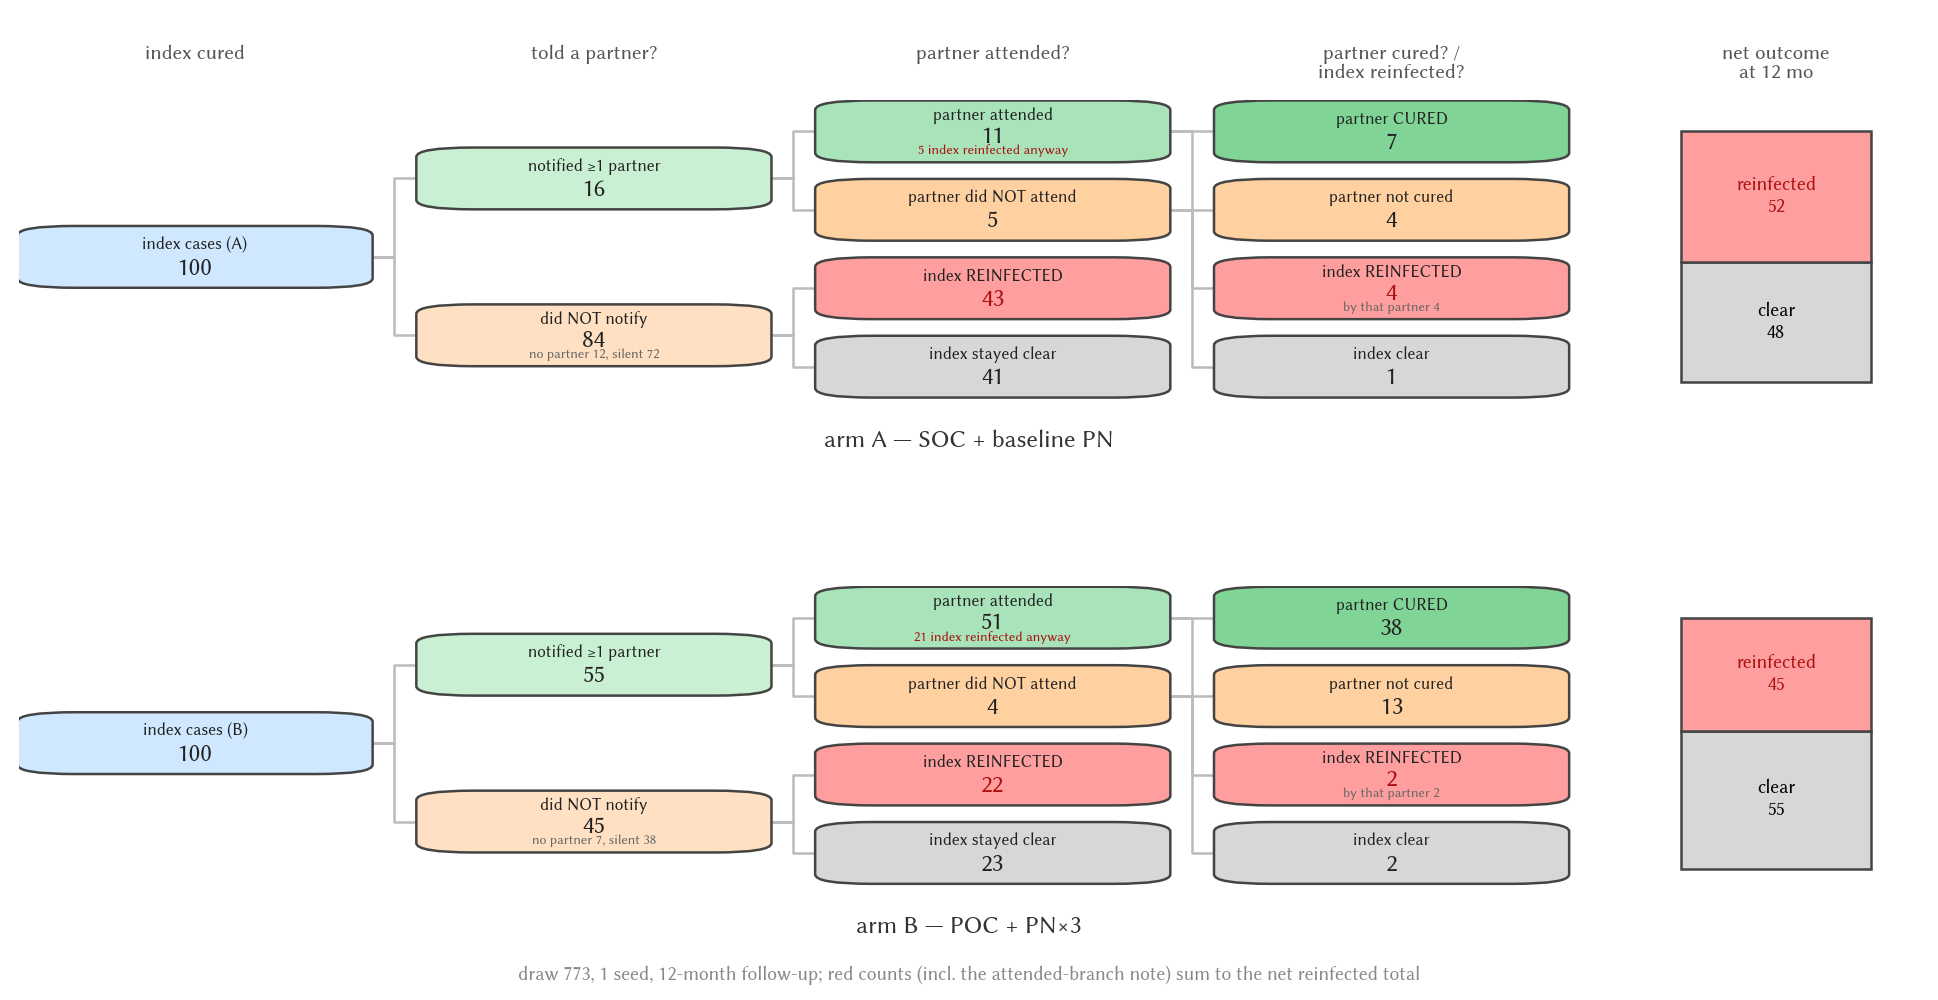
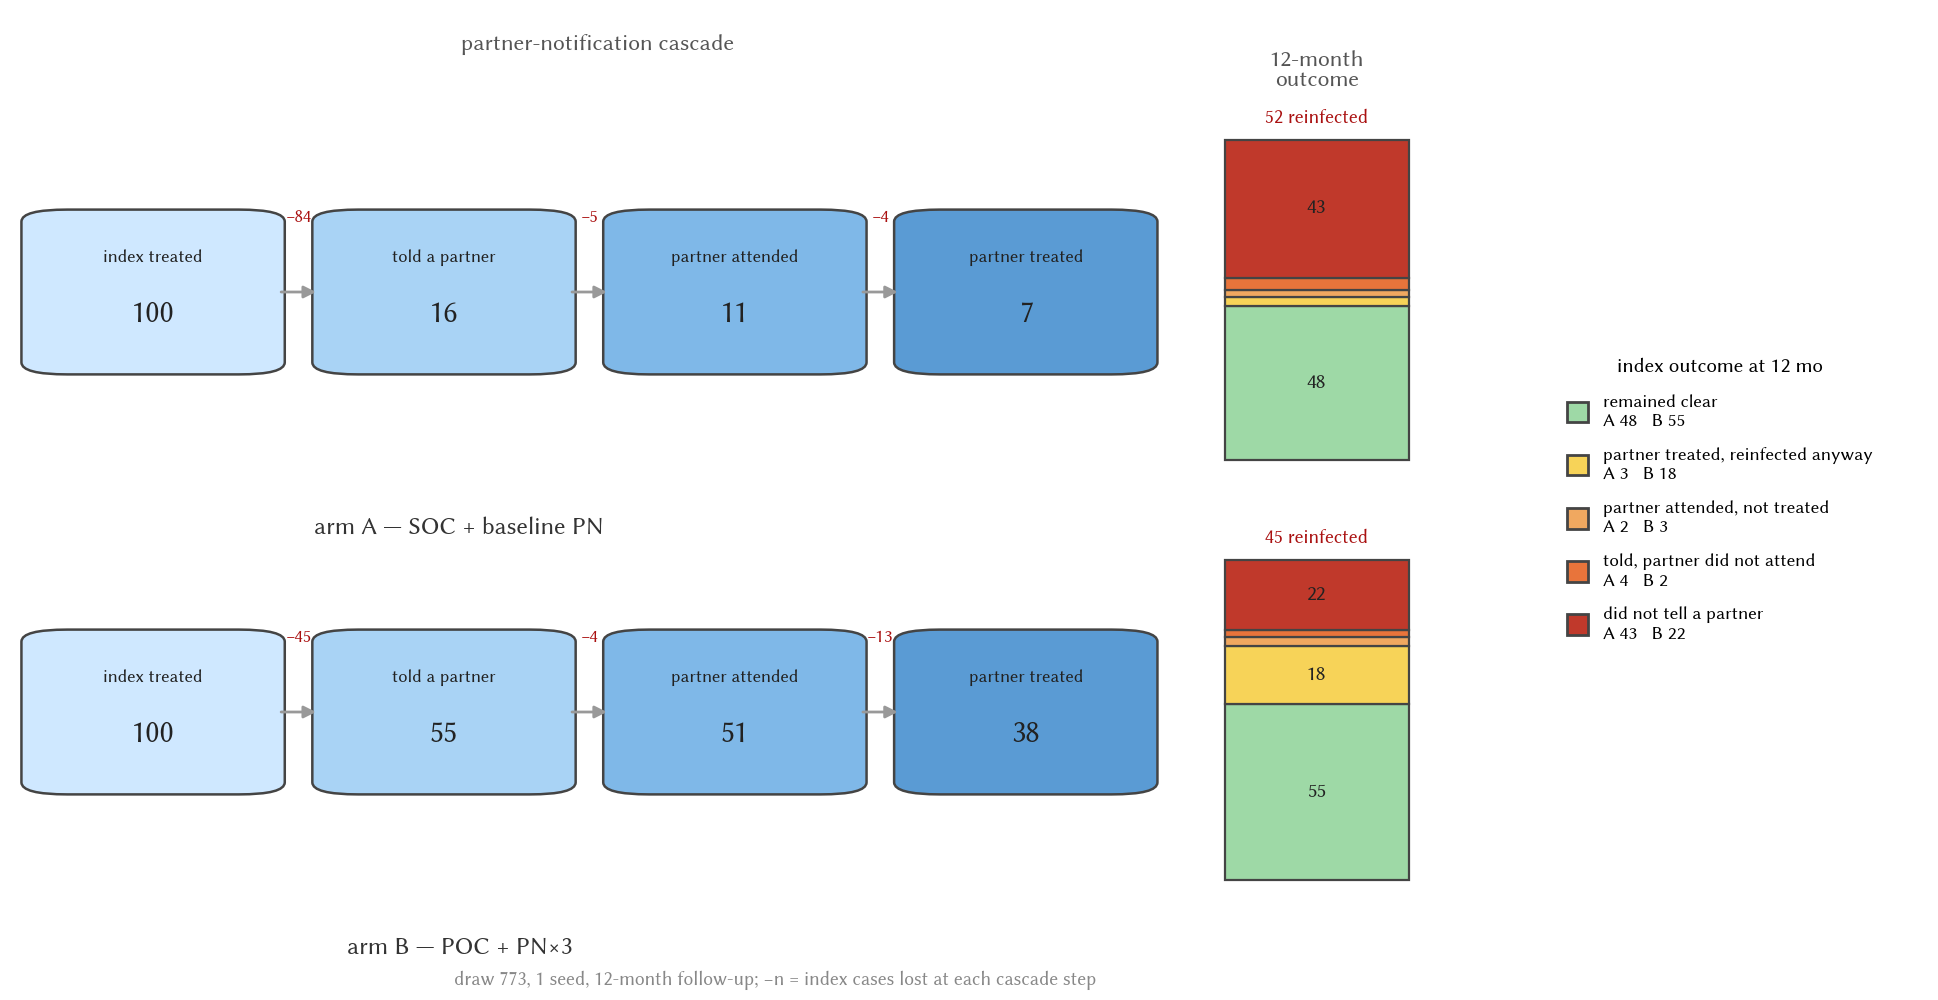
Add PN cascade + 12-mo outcome figure (arms A/B)

diff --git a/plot_pn_cascade.py b/plot_pn_cascade.py
@@ -1,9 +1,14 @@
-"""House-style CT partner-notification cascade, arms A and B in one 9.7w x 5h
-figure. Each panel traces 100 treated index cases through the PN chain to a net
-12-month outcome (clear vs reinfected), shown as a stacked bar at the far right.
+"""House-style CT partner-notification figure, arms A and B, 9.7w x 5h.
 
-Reads chain leaves from archive/04_soc_vs_poc_pn_wiring/outputs/chain_tree_{A,B}.json
-and net cohort reinfection from .../arm_comparison.csv.
+Two distinct axes per arm:
+  * PN cascade (left)  — index treated -> told a partner -> partner attended ->
+    partner treated, with the drop-off at each step.
+  * 12-month outcome (right) — stacked bar: did the index stay clear, and if
+    reinfected, where did the cascade break? Four failure points:
+      did not tell a partner; told but partner did not attend; partner attended
+      but not treated; partner treated but index reinfected anyway.
+
+Reads per-index chain flags from archive/04_soc_vs_poc_pn_wiring/outputs/chains_{A,B}.csv.
 
   figures/fig_pn_cascade.png
 
@@ -12,13 +17,13 @@ Run from the repo root:
 """
 from __future__ import annotations
 
-import json
 from pathlib import Path
 
 import pandas as pd
 import sciris as sc
 import matplotlib.pyplot as plt
-from matplotlib.patches import FancyBboxPatch, Rectangle
+import matplotlib.patches as mpatches
+from matplotlib.patches import FancyBboxPatch, Rectangle, FancyArrowPatch
 
 HERE = Path(__file__).resolve().parent
 OUT = HERE / 'archive' / '04_soc_vs_poc_pn_wiring' / 'outputs'
@@ -26,93 +31,83 @@ FIG = HERE / 'figures'
 FONT = '/Users/robynstuart/gf/syph_dx_zim/assets/LibertinusSans-Regular.otf'
 
 ARM_TITLE = {'A': 'arm A — SOC + baseline PN', 'B': 'arm B — POC + PN×3'}
-REINF, CLEAR = '#ff9e9e', '#d7d7d7'
 
-W, BH = 0.175, 0.185                         # box width, height (axes coords)
-XS = [0.005, 0.215, 0.425, 0.635]            # column left edges
-ROWS = [0.90, 0.65, 0.40, 0.15]              # four shared row centres
-BAR_X, BAR_W = 0.875, 0.10                   # net-outcome stacked bar
-HEADERS = ['index cured', 'told a partner?', 'partner attended?',
-           'partner cured? /\nindex reinfected?', 'net outcome\nat 12 mo']
+# cascade stages (left to right) and a deepening blue
+CASC_COLORS = ['#cfe8ff', '#a9d3f5', '#7fb8e8', '#5a9bd4']
+CX = [0.02, 0.21, 0.40, 0.59]            # cascade box left edges (axes coords)
+CW, CH, CY = 0.16, 0.40, 0.52            # box width, height, centre y
+
+# outcome categories, stacked bottom -> top, with colours and labels
+CLEAR = '#9ed9a6'
+OUTCOME = [
+    ('clear',  CLEAR,     'remained clear'),
+    ('f4',     '#f7d358', 'partner treated, reinfected anyway'),
+    ('f3',     '#f0a860', 'partner attended, not treated'),
+    ('f2',     '#e8743b', 'told, partner did not attend'),
+    ('f1',     '#c0392b', 'did not tell a partner'),
+]
+BAR_X, BAR_W = 0.80, 0.12
 
 
-def _box(ax, x, y, name, num, color, note=None, hi=False, note_color='#666'):
-    ax.add_patch(FancyBboxPatch((x, y - BH / 2), W, BH,
+def arm_numbers(arm):
+    c = pd.read_csv(OUT / f'chains_{arm}.csv')
+    notif, att, ptx, re = c.notified_any, c.attended_any, c.partner_cured, c.A_reinfected
+    return dict(
+        n=len(c),
+        cascade=[len(c), int(notif.sum()), int(att.sum()), int(ptx.sum())],
+        clear=int((~re).sum()),
+        f1=int((~notif & re).sum()),
+        f2=int((notif & ~att & re).sum()),
+        f3=int((att & ~ptx & re).sum()),
+        f4=int((att & ptx & re).sum()),
+    )
+
+
+def _casc_box(ax, x, name, count, color):
+    ax.add_patch(FancyBboxPatch((x, CY - CH / 2), CW, CH,
                                 boxstyle='round,pad=0.006,rounding_size=0.03',
                                 linewidth=0.9, edgecolor='#444', facecolor=color))
-    cx = x + W / 2
-    ax.text(cx, y + (0.050 if note else 0.038), name, ha='center', va='center',
-            fontsize=6.2, color='#222')
-    ax.text(cx, y - (0.018 if note else 0.038), str(num), ha='center', va='center',
-            fontsize=9, fontweight='bold', color='#a11' if hi else '#222')
-    if note:
-        ax.text(cx, y - 0.062, note, ha='center', va='center', fontsize=5.0,
-                color=note_color)
+    cx = x + CW / 2
+    ax.text(cx, CY + 0.085, name, ha='center', va='center', fontsize=6.6, color='#222')
+    ax.text(cx, CY - 0.055, str(count), ha='center', va='center', fontsize=11,
+            fontweight='bold', color='#222')
 
 
-def _link(ax, i, y0, j, y1):
-    """Elbow connector from right edge of column i to left edge of column j."""
-    x0, x1 = XS[i] + W, XS[j]
-    xm = (x0 + x1) / 2
-    ax.plot([x0, xm, xm, x1], [y0, y0, y1, y1], color='#bbb', lw=0.9, zorder=0)
+def _arrow(ax, x0, x1, lost):
+    ax.add_patch(FancyArrowPatch((x0, CY), (x1, CY), arrowstyle='-|>',
+                                 mutation_scale=9, color='#999', lw=1.0, zorder=1))
+    ax.text((x0 + x1) / 2, CY + 0.165, f'−{lost}', ha='center', va='bottom',
+            fontsize=6.5, color='#a11')
 
 
-def _outcome_bar(ax, reinf, total=100):
-    """Stacked bar at far right: index cases clear vs reinfected at 12 mo."""
-    clear = total - reinf
-    y0, H = 0.10, 0.80
-    hc = H * clear / total
-    hr = H * reinf / total
-    cx = BAR_X + BAR_W / 2
-    ax.add_patch(Rectangle((BAR_X, y0), BAR_W, hc, facecolor=CLEAR,
-                           edgecolor='#444', lw=0.9))
-    ax.add_patch(Rectangle((BAR_X, y0 + hc), BAR_W, hr, facecolor=REINF,
-                           edgecolor='#444', lw=0.9))
-    ax.text(cx, y0 + hc / 2, f'clear\n{clear}', ha='center', va='center', fontsize=7)
-    ax.text(cx, y0 + hc + hr / 2, f'reinfected\n{reinf}', ha='center', va='center',
-            fontsize=7, color='#a11', fontweight='bold')
-
-
-def draw_tree(ax, arm, reinf_total):
-    t = json.loads((OUT / f'chain_tree_{arm}.json').read_text())
-    n, nn, no = t['cohort'], t['not_notified'], t['notified']
+def draw_arm(ax, arm, d):
     ax.set_xlim(0, 1); ax.set_ylim(0, 1); ax.axis('off')
+    names = ['index treated', 'told a partner', 'partner attended', 'partner treated']
+    casc = d['cascade']
 
-    y_index, y_yes, y_no = 0.5, 0.75, 0.25
-    y_att, y_natt, y_reinf, y_clear = ROWS
+    for x, name, cnt, col in zip(CX, names, casc, CASC_COLORS):
+        _casc_box(ax, x, name, cnt, col)
+    for i in range(3):
+        _arrow(ax, CX[i] + CW, CX[i + 1], casc[i] - casc[i + 1])
 
-    _box(ax, XS[0], y_index, f'index cases ({arm})', n, '#cfe8ff')
-    _link(ax, 0, y_index, 1, y_yes)
-    _link(ax, 0, y_index, 1, y_no)
+    # stacked outcome bar
+    y0, H, tot = 0.10, 0.80, d['n']
+    y = y0
+    for key, col, _ in OUTCOME:
+        v = d[key]
+        h = H * v / tot
+        ax.add_patch(Rectangle((BAR_X, y), BAR_W, h, facecolor=col,
+                               edgecolor='#444', lw=0.8))
+        if h >= 0.07:
+            ax.text(BAR_X + BAR_W / 2, y + h / 2, str(v), ha='center', va='center',
+                    fontsize=7.5, color='#222')
+        y += h
+    reinf = d['f1'] + d['f2'] + d['f3'] + d['f4']
+    ax.text(BAR_X + BAR_W / 2, y0 + H + 0.03,
+            f'{reinf} reinfected', ha='center', va='bottom', fontsize=7,
+            color='#a11', fontweight='bold')
 
-    _box(ax, XS[1], y_yes, 'notified ≥1 partner', no['total'], '#c9f0d2')
-    _box(ax, XS[1], y_no, 'did NOT notify', nn['total'], '#ffe0c2',
-         note=f"no partner {nn['no_partner']}, silent {nn['had_partner_silent']}")
-    _link(ax, 1, y_yes, 2, y_att)
-    _link(ax, 1, y_yes, 2, y_natt)
-    _link(ax, 1, y_no, 2, y_reinf)
-    _link(ax, 1, y_no, 2, y_clear)
-
-    att_reinf = reinf_total - nn['reinfected'] - no['notattend_reinf_index']
-    _box(ax, XS[2], y_att, 'partner attended', no['partner_attended'], '#a9e3ba',
-         note=f'{att_reinf} index reinfected anyway', note_color='#a11')
-    _box(ax, XS[2], y_natt, 'partner did NOT attend', no['partner_not_attended'], '#ffd0a0')
-    _box(ax, XS[2], y_reinf, 'index REINFECTED', nn['reinfected'], REINF, hi=True)
-    _box(ax, XS[2], y_clear, 'index stayed clear', nn['stayed_clear'], CLEAR)
-    _link(ax, 2, y_att, 3, ROWS[0])
-    _link(ax, 2, y_att, 3, ROWS[1])
-    _link(ax, 2, y_natt, 3, ROWS[2])
-    _link(ax, 2, y_natt, 3, ROWS[3])
-
-    _box(ax, XS[3], ROWS[0], 'partner CURED', no['attended_partner_cured'], '#7fd496')
-    _box(ax, XS[3], ROWS[1], 'partner not cured', no['attended_partner_not_cured'], '#ffd0a0')
-    _box(ax, XS[3], ROWS[2], 'index REINFECTED', no['notattend_reinf_index'], REINF,
-         note=f"by that partner {no['notattend_reinf_by_that_partner']}", hi=True)
-    _box(ax, XS[3], ROWS[3], 'index clear', no['notattend_clear'], CLEAR)
-
-    _outcome_bar(ax, reinf_total)
-
-    ax.text(0.5, -0.05, ARM_TITLE[arm], ha='center', va='top', fontsize=9,
+    ax.text(0.30, -0.04, ARM_TITLE[arm], ha='center', va='top', fontsize=9,
             fontweight='bold', color='#333', clip_on=False)
 
 
@@ -120,21 +115,29 @@ def main():
     sc.fonts(add=FONT)
     sc.options(font='Libertinus Sans', fontsize=11)
 
-    comp = pd.read_csv(OUT / 'arm_comparison.csv', index_col='arm')
-    fig, (axA, axB) = plt.subplots(2, 1, figsize=(9.7, 5))
-    draw_tree(axA, 'A', int(comp.loc['A', 'cohort_reinfected']))
-    draw_tree(axB, 'B', int(comp.loc['B', 'cohort_reinfected']))
+    data = {arm: arm_numbers(arm) for arm in 'AB'}
 
-    left, right = 0.01, 0.99
-    hx = [x + W / 2 for x in XS] + [BAR_X + BAR_W / 2]
-    for x, txt in zip(hx, HEADERS):
-        fig.text(left + x * (right - left), 0.955, txt, ha='center', va='top',
-                 fontsize=7.5, fontweight='bold', color='#555', linespacing=0.95)
+    fig = plt.figure(figsize=(9.7, 5))
+    axA = fig.add_axes([0.0, 0.50, 0.79, 0.40])
+    axB = fig.add_axes([0.0, 0.08, 0.79, 0.40])
+    draw_arm(axA, 'A', data['A'])
+    draw_arm(axB, 'B', data['B'])
 
-    fig.text(0.5, 0.02, 'draw 773, 1 seed, 12-month follow-up; red counts (incl. the '
-             'attended-branch note) sum to the net reinfected total',
-             ha='center', fontsize=7, color='#888')
-    fig.subplots_adjust(left=left, right=right, top=0.90, bottom=0.10, hspace=0.55)
+    # section headers (figure coords above arm A)
+    fig.text(0.79 * (CX[0] + CW * 2 + 0.05), 0.95, 'partner-notification cascade',
+             ha='center', fontsize=8.5, fontweight='bold', color='#555')
+    fig.text(0.79 * (BAR_X + BAR_W / 2), 0.95, '12-month\noutcome', ha='center',
+             va='top', fontsize=8.5, fontweight='bold', color='#555', linespacing=0.95)
+
+    # shared legend with per-arm counts
+    handles = [mpatches.Patch(facecolor=col, edgecolor='#444') for _, col, _ in OUTCOME]
+    labels = [f'{lab}\nA {data["A"][k]}   B {data["B"][k]}' for k, _, lab in OUTCOME]
+    fig.legend(handles, labels, loc='center left', bbox_to_anchor=(0.80, 0.5),
+               frameon=False, fontsize=6.8, handlelength=1.1, handleheight=1.3,
+               labelspacing=0.9, title='index outcome at 12 mo', title_fontsize=7.5)
+
+    fig.text(0.40, 0.015, 'draw 773, 1 seed, 12-month follow-up; −n = index cases '
+             'lost at each cascade step', ha='center', fontsize=7, color='#888')
 
     FIG.mkdir(parents=True, exist_ok=True)
     p = FIG / 'fig_pn_cascade.png'
